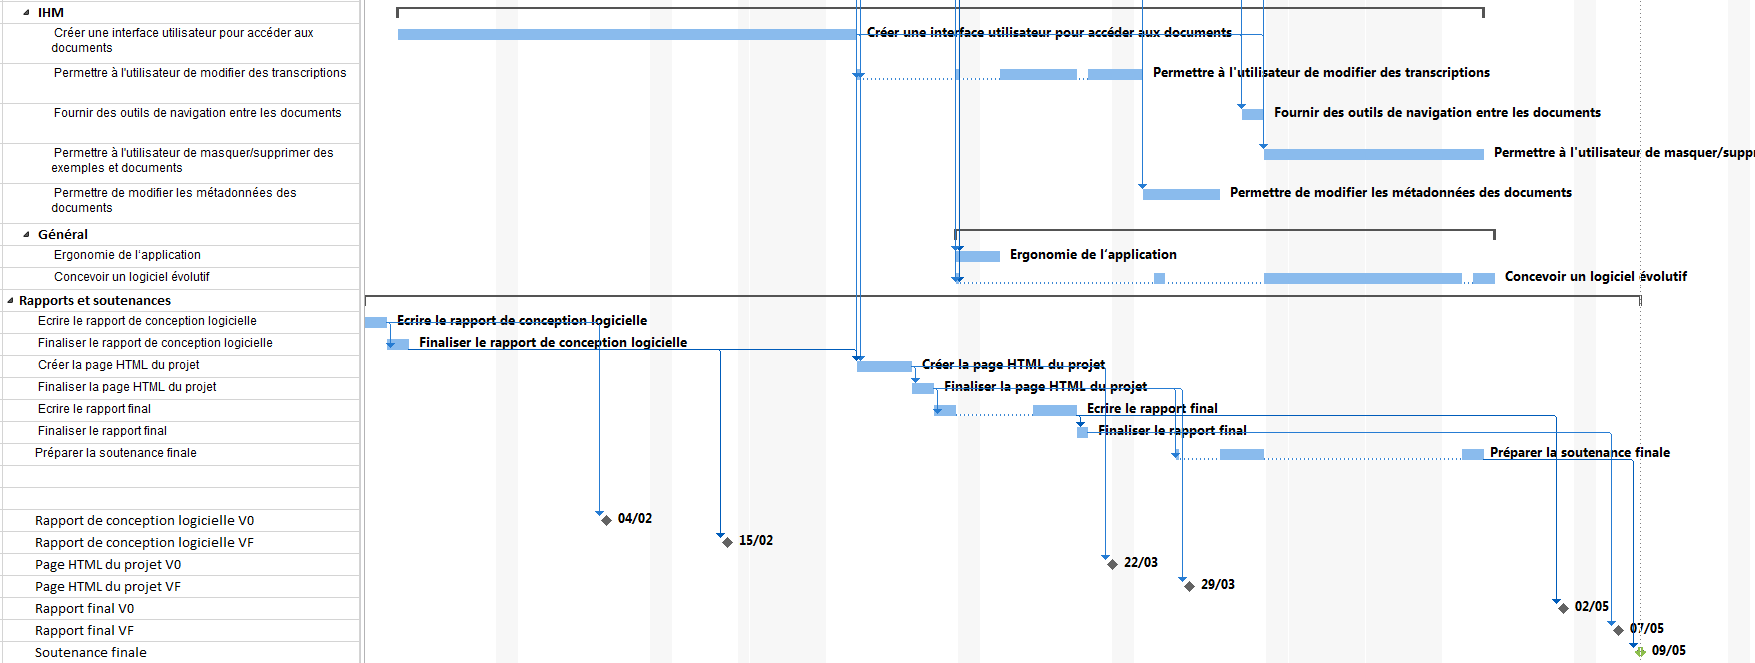
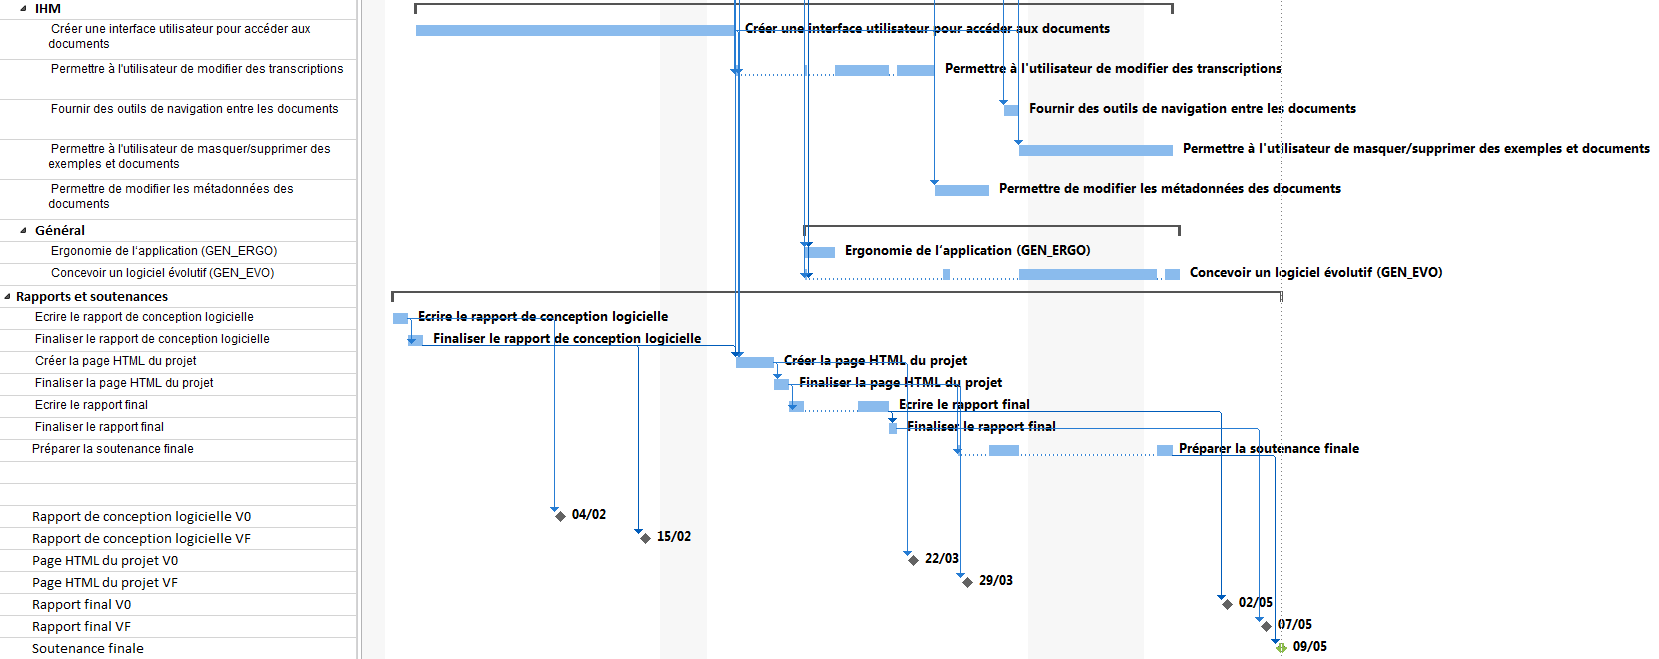
rapport de planification VF

diff --git a/Rapports/Planification/planification.tex b/Rapports/Planification/planification.tex
@@ -17,16 +17,43 @@ Le projet est découpé en 6 tâches principales. Les tâches représentent les 
 
 \paragraph{}
 
-Le projet se déroule de manière parallèle en règle générale, mais chaque bloc a un fonctionnement interne séquentiel, chaque grande tâche est divisée en sous-tâches.
+Le projet se déroule de manière parallèle en règle générale, mais chaque bloc a un fonctionnement interne séquentiel, chaque grande tâche est divisée en sous-tâches. Nous avons estimé la durée des différentes tâches d’après notre expérience sur les différents travaux pratiques et projets effectués au cours de notre formation.
 
 \paragraph{}
 
-Tout d’abord, la partie \textbf{préparation des données} consiste à traiter les documents que l’utilisateur souhaite intégrer au logiciel pour pouvoir les découper et les mettre dans un format compatible avec la base de données.
-Ensuite, la partie \textbf{stockage des données} consiste à créer une base de données (choix de la manière de stocker les données établi dans le rapport de spécifications) pour enregistrer les exemples d’apprentissage donnés par l’utilisateur et fournir une interface pour extraire ces données.
-La partie interface avec le reconnaisseur consiste à fournir une interface entre le stockage et le système de reconnaissance d’écriture manuscrite.
-La partie \textbf{IHM} est la partie fournissant l’interface entre le logiciel et l’utilisateur.
-La partie \textbf{généralités} est une partie regroupant des travaux globaux sur le logiciel (lier les blocs entre eux, concevoir un logiciel évolutif, etc. ).
-Enfin, les \textbf{rapports et soutenances} représentent une partie non négligeable du travail et surtout la partie la plus contrainte aux dates de rendus.
+Tout d’abord, la partie \textbf{préparation des données} consiste à traiter les documents que l’utilisateur souhaite intégrer au logiciel pour pouvoir les découper et les mettre dans un format compatible avec la base de données. Cette partie représente selon notre estimation 77 heures de travail.
+
+\paragraph{}
+
+Ensuite, la partie \textbf{stockage des données} consiste à créer une base de données (choix de la manière de stocker les données établi dans le rapport de spécifications) pour enregistrer les exemples d’apprentissage donnés par l’utilisateur et fournir une interface pour extraire ces données. Cette partie représente environ 10 heures de travail, une grande partie ayant été faite au premier semestre.
+
+\paragraph{}
+
+La partie \textbf{interface avec le reconnaisseur} consiste à fournir une interface entre le stockage et le système de reconnaissance d’écriture manuscrite. Cette partie a été estimée à 40 heures de travail.
+
+\paragraph{}
+
+La partie \textbf{IHM} est la partie fournissant l’interface entre le logiciel et l’utilisateur. C’est dans cette partie que le plus de travail reste à faire, que nous avons estimé à 85 heures.
+
+\paragraph{}
+
+La partie \textbf{généralités} est une partie regroupant des travaux globaux sur le logiciel (lier les blocs entre eux, concevoir un logiciel évolutif, etc. ). Cela représente environ 16 heures de travail.
+
+\paragraph{}
+
+Enfin, les \textbf{rapports et soutenances} représentent une partie non négligeable du travail et surtout la partie la plus contrainte aux dates de rendus. Nous avons estimés cette partie à 63 heures de travail : environ 15 heures par rapport, 10 heures pour la soutenance, et 23 heures pour la page HTML.
+
+\paragraph{}
+
+La durée totale du projet est estimée à 228 heures.
+
+\paragraph{}
+
+\begin{mdframed}[frametitle={Figure 2 : Diagramme de répartition du travail par bloc}, innerbottommargin=10]
+\begin{center}
+\includegraphics[scale=0.44]{repartition_travail_blocs.pdf}
+\end{center}
+\end{mdframed}
 
 \section{Affectation des ressources par tâche}
 
@@ -42,7 +69,11 @@ La partie stockage des données est une partie différente des autres car la bas
 
 \paragraph{}
 
-Cette répartition permet de répartir la charge de travail de manière équilibrée. Selon notre estimation du temps de travail pour chaque tâche, chaque membre du groupe a une charge de travail égale.
+Concernant la répartition du travail sur les rapports, il a été estimé un travail égal pour chaque personne. Etant donné que les membres de l’équipe sont répartis en blocs, au moins un membre de chaque doit écrire une partie du rapport. Nous sommes donc partis du principe que le travail sur le rapport serait équitablement réparti dans chaque bloc, mais la répartition intra-blocs se fera en réalité au moment de l’écriture entre les membres de l’équipe.
+
+\paragraph{}
+
+Cette répartition permet de répartir la charge de travail de manière équilibrée. Selon notre estimation du temps de travail pour chaque tâche, chaque membre du groupe a une charge de travail égale (de 42~43 heures).
 
 \section{Jalons}
 
@@ -50,7 +81,7 @@ En plus de la planification du temps de développement, nous avons intégré à 
 
 \section{Diagramme de Gantt}
 
-\begin{mdframed}[frametitle={Figure 1 : Diagramme de Gantt du projet (1/2)}, innerbottommargin=10]
+\begin{mdframed}[frametitle={Figure 3 : Diagramme de Gantt du projet (1/2)}, innerbottommargin=10]
 \begin{center}
 \includegraphics[scale=0.35]{gantt_V2.1.PNG}
 \end{center}
@@ -58,7 +89,7 @@ En plus de la planification du temps de développement, nous avons intégré à 
 
 \newpage
 
-\begin{mdframed}[frametitle={Figure 2 : Diagramme de Gantt du projet (2/2)}, innerbottommargin=10]
+\begin{mdframed}[frametitle={Figure 4 : Diagramme de Gantt du projet (2/2)}, innerbottommargin=10]
 \begin{center}
 \includegraphics[scale=0.35]{gantt_V2.2.PNG}
 \end{center}
@@ -66,14 +97,28 @@ En plus de la planification du temps de développement, nous avons intégré à 
 
 Le diagramme de Gantt ci-dessus décrit l’ensemble de la planification du projet, de la conception au rendu final en passant par la gestion de projet ou le développement de chaque itération. On y retrouve également les jalons dont nous avons parlé précédemment.
 
-\paragraph{}
-Comme dit précédemment, notre projet est consistué de deux itérations. La première itération est constitué des tâches à effectuer avant la création de la page HTML. La seconde est composée des tâches restantes.
+\section{Analyse de la planification}
+
+\subsection{Analyse globale}
+
+Comme dit précédemment, notre projet est constitué de deux itérations. La première itération est constitué des tâches à effectuer avant la création de la page HTML. La seconde est composée des tâches restantes. Comme on peut le voir sur le diagramme, les quatre blocs sont biens parallèles et découpés en tâches. On peut constater que les tâches sont réparties uniformément entre les différents blocs mais que la partie IHM se termine après les autres. Cette partie étant en effet, plus volumineuse, les membres du groupe qui auront terminé leur partie pourront éventuellement aller aider à développer l’IHM en fin  de projet.
+
+\subsection{Tâches critiques}
+
+A partir du diagramme de Gantt, on peut voir apparaître deux tâches critiques, bloquant l’avancement du projet.
+
+\begin{itemize}
+\item la création d’un convertisseur GEDI vers Piff est une tâche nécessaire pour l’ensemble des tâches de la préparation de données et de l’interface avec le reconnaisseur ;
+\item la création de la base de données est une étape nécessaire pour intégrer la majorité des fonctionnalités de l’IHM .
+\end{itemize}
 
 \paragraph{}
-Comme on peut le voir sur le diagramme, les quatre blocs sont biens parallèles et découpés en tâches.
 
+Ces tâches doivent être effectuées en priorité pour que le projet puisse avancer. Elles influent en effet sur plusieurs parties du projet. Une fois ces tâches effectuées, la majorité du projet peut se paralléliser. Cet aspect critique a été déduit intuitivement lors de la phase de spécifications du projet, c‘est pourquoi leur développement a été entamé au premier semestre. L’étude avec Microsoft Project a permis de confirmer l’aspect impératif de ces tâches.
 
+\subsection{Ce que l'on peut retenir}
 
+Grâce au diagramme de Gantt, nous avons pu estimer l’organisation de notre travail au second semestre. Selon cette estimation, la date de fin de projet est fixée au vendredi 26 avril. Ce qui nous laisse deux semaines d’avance, avant le dernier rendu. Nous avons également pu confirmer que l’ensemble de notre projet est faisable dans le temps qui nous est imparti. De même, selon Microsoft Project, la réalisation de la première itération pourra être réalisée pour le 27 février. Nous disposerons alors d’une première réalisation fonctionnelle de notre projet, nous aurons du temps pour améliorer cette première version, en collaboration avec le client.
 
 
 

diff --git a/Rapports/Planification/estimation.tex b/Rapports/Planification/estimation.tex
@@ -7,7 +7,17 @@ L’estimation des charges de la partie hors développement se résume en deux g
 
 \paragraph{}
 
-Pour les deux grands points, le calcul a été sensiblement le même. Dans un premier temps, pour les réunions, nous nous sommes basés sur le temps hebdomadaire passé en réunion depuis le début du projet, au mois de septembre, que nous avons multiplié à la fois par le nombre de semaines restantes et par le nombre de personnes dans le groupe. Dans un  second temps, nous avons calculé le temps nécessaire à la réalisation des prochains rapports. Dans ce cas, nous avons multiplié le temps passé en moyenne par chaque personne pour l’écriture d’un rapport par le nombre de personnes dans le groupe et par le nombre de rapports qu’il nous reste à rendre. Nous avons pu calculer la charge des rapports de cette façon, car nous avons réparti leurs réalisations de façon homogène entre les différents membres du groupe.
+Pour les deux grands points, le calcul a été sensiblement le même. Dans un premier temps, pour les réunions, nous nous sommes basés sur le temps hebdomadaire passé en réunion depuis le début du projet, au mois de septembre, que nous avons multiplié à la fois par le nombre de semaines restantes et par le nombre de personnes dans le groupe. Dans un  second temps, nous avons calculé le temps nécessaire à la réalisation des prochains rapports. Pour ce faire nous avions besoin de plusieurs chiffres :
+
+\begin{itemize}
+\item le nombre moyen d’heures passées par personnes pour la réalisation d’un rapport. Ce chiffre est basé sur le temps que nous avons passé pour l’écriture des premiers rapports ;
+\item le nombre de personnes affectées à la rédaction d’un rapport. Nous avons choisi de mobiliser la moitié du groupe pour l’écriture de chaque rapport. Ainsi, le groupe étant réduit à 5 personnes au second semestre, 2 personnes s’occuperont d’un rapport pendant les périodes de rendu ;
+\item le nombre de rapports restants.
+\end{itemize}
+
+\paragraph{}
+
+En multipliant ces chiffres, nous avons obtenu la charge des rapports. Ce calcul a été possible car nous avons réparti de façon homogène entre les membres du groupe la charge de travail pour la réalisation des rapports.
 
 \section{Estimation de la partie développement}
 
@@ -16,7 +26,7 @@ Cette partie a été plus compliquée à estimer car nous avions peu de repères
 \begin{itemize}
 \item connaissance des technologies utilisées (donc temps d’apprentissage nécessaire estimé) ;
 \item temps estimé de conception ;
-\item temps estimé de développement .
+\item temps estimé de développement (en incluant les tests) .
 \end{itemize}
 
 \subsection{Estimation du temps d'apprentissage}
@@ -31,4 +41,19 @@ La conception ayant majoritairement été réalisée précédemment, cette parti
 
 \subsection{Estimation du temps de développement}
 
-Cette partie de l’estimation est la plus compliquée à estimer. En effet, il n’est pas possible de prévoir les problèmes que nous allons rencontrer. C’est pourquoi, nous nous sommes basés sur le temps de développement d’autres projets que nous avons réalisés en y ajoutant une marge au cas où nous serions confrontés à un problème. Afin d’essayer d’obtenir une approximation plus proche de la réalité, nous avons divisé en plus petites parties les objectifs de chacun. Ainsi, alors qu’un grand projet peut paraître vague à estimer, raisonner sur des petites parties concrètes nous permet cette granularité.
+Cette partie de l’estimation est la plus compliquée à estimer. En effet, il n’est pas possible de prévoir les problèmes que nous allons rencontrer. C’est pourquoi, nous nous sommes basés sur le temps de développement d’autres projets que nous avons réalisés comptant l’écriture du code, la documentation ainsi que les tests, et en y ajoutant une marge au cas où nous serions confrontés à un problème. Afin d’essayer d’obtenir une approximation plus proche de la réalité, nous avons divisé en plus petites parties les objectifs de chacun. Ainsi, alors qu’un grand projet peut paraître vague à estimer, raisonner sur des petites parties concrètes nous permet cette granularité.
+
+\paragraph{}
+
+Nous avons décomposé chaque tâche de développement en sous-parties. Tout d’abord une marge de 25\% est définie en cas de sous-estimation du temps de travail. Ensuite, le travail à faire est décomposé en deux grande parties auxquelles un temps égal est accordé : la conception de la solution en elle-même et la correction de la solution. Concernant la première partie, 12.5\% du temps correspond à l’analyse du travail à faire, à la recherche d’une solution efficace pour répondre au problème posé. Le développement en temps que tel, l’implémentation de la réponse, représente 25\% du temps. Concernant la seconde partie, 20\% du temps est accordé à la création et à l’exécution de tests afin de vérifier le bon fonctionnement de la solution. Enfin, respectivement 12.5\% et 5\% sont dédiés à l’intégration au sein du projet et à la documentation.
+
+\paragraph{}
+
+\begin{mdframed}[frametitle={Figure 1 : Diagramme de répartition du travail par tâche}, innerbottommargin=10]
+\begin{center}
+\includegraphics[scale=0.44]{repartition_travail_taches.pdf}
+\end{center}
+\end{mdframed}
+
+
+

diff --git a/Rapports/Planification/rappel-contexte.tex b/Rapports/Planification/rappel-contexte.tex
@@ -3,7 +3,7 @@
 
 \section{Les acteurs du projet}
 
-Notre projet est encadré par Bertrand COÜASNON, enseignant à l’INSA de Rennes et membre de l’équipe de recherche IntuiDoc à l’IRISA, ainsi que Erwan Fouché et Julien Bouvet, ingénieurs au sein de l’entreprise Sopra Steria. Nous réalisons ce projet en relation Jean-Yves LE CLERC, conservateur et responsable de la numérisation  aux archives départementales d’Ille-et-Vilaine, et Sophie Tardivel, responsable et data scientist chez Doptim.
+Notre projet est encadré par Bertrand COÜASNON, enseignant à l’INSA de Rennes et membre de l’équipe de recherche IntuiDoc à l’IRISA, ainsi que Erwan Fouché et Julien Bouvet, ingénieurs au sein de l’entreprise Sopra Steria. Nous réalisons ce projet en relation avec Jean-Yves LE CLERC, conservateur et responsable de la numérisation  aux archives départementales d’Ille-et-Vilaine, et Sophie Tardivel, responsable et data scientist chez Doptim.
 
 \paragraph{}
 
@@ -35,7 +35,7 @@ Le résultat attendu par le client est une application pouvant être utilisable 
 
 \paragraph{}
 
-Afin d’arriver à ce niveau de qualification, nous allons devoir mettre en place plusieurs  stratégies. Tout d’abord nous ferons des tests unitaires sur l’application afin de nous assurer de la robustesse du système de gestion des données. Ensuite, du côté client, les tests seront surtout faits directement sur l’interface utilisateur pour détecter des problèmes fonctionnels d’une part et problèmes d’affichage d’autre part.
+Afin d’arriver à ce niveau de qualification, nous allons devoir mettre en place plusieurs  stratégies. Tout d’abord nous ferons des tests unitaires sur l’application afin de nous assurer de la robustesse du système de gestion des données. Ensuite, du côté client, les tests seront surtout faits directement sur l’interface utilisateur pour détecter des problèmes fonctionnels d’une part et des problèmes d’affichage d’autre part.
 
 \section{Le calendrier}
 
@@ -87,7 +87,7 @@ Lors de la phase de développement de l’application, nous avons envisagé plus
 
 \paragraph{}
 
-\textbf{Risque : } Absence non prévue (maladie, etc.)
+\noindent \textbf{Risque : } Absence non prévue (maladie, etc.)
 \newline
 \textbf{Impact : } Plus de travail pour les autres, nécessité de rattraper le retard pour l'absent
 \newline
@@ -97,7 +97,7 @@ Lors de la phase de développement de l’application, nous avons envisagé plus
 
 \paragraph{}
 
-\textbf{Risque : } Surcharge de travail avec les cours
+\noindent \textbf{Risque : } Surcharge de travail avec les cours
 \newline
 \textbf{Impact : } Moins de temps pour travailler sur le projet
 \newline
@@ -105,15 +105,15 @@ Lors de la phase de développement de l’application, nous avons envisagé plus
 
 \paragraph{}
 
-\textbf{Risque : } Bug incompréhensible, zone de blocage
+\noindent \textbf{Risque : } Bug incompréhensible, zone de blocage
 \newline
 \textbf{Impact : } Perte de temps et risque de retarder les autres membres de l’équipe
 \newline
 \textbf{Action : } En parler avec les autres pour ne pas rester coincé seul
 
 \paragraph{}
-
-\textbf{Risque : } Blocage dû à la parallélisation des tâches (exemple : le développeur de la partie
+ 
+\noindent \textbf{Risque : } Blocage dû à la parallélisation des tâches (exemple : le développeur de la partie
 front-end en attente de la mise en place de la partie base de données)
 \newline
 \textbf{Impact : } Perte de temps et membres du groupe non utilisés
@@ -123,7 +123,7 @@ en attendant
 
 \paragraph{}
 
-\textbf{Risque : } Problème relationnel entre des personnes du groupe
+\noindent \textbf{Risque : } Problème relationnel entre des personnes du groupe
 \newline
 \textbf{Impact : } Création de conflits, perte de communication et donc d’informations
 \newline
@@ -133,7 +133,7 @@ en attendant
 
 \paragraph{}
 
-\textbf{Risque : } Mauvaise interprétation de ce qui est demandé par le client
+\noindent \textbf{Risque : } Mauvaise interprétation de ce qui est demandé par le client
 \newline
 \textbf{Impact : } Perte de temps à développer inutilement
 \newline

diff --git a/Rapports/Planification/organisation.tex b/Rapports/Planification/organisation.tex
@@ -2,7 +2,7 @@
 
 \section{Découpage du projet}
 
-Le projet peut être découpé en quatre blocs distincts. Nous avons donc réparti chacun des membres de l’équipe sur ces blocs. Cette façon de découper le projet possède des avantages comme des inconvénients.
+Le projet peut être découpé en quatre blocs distincts. Nous avons donc réparti chacun des membres de l’équipe sur ces blocs. Chaque bloc comprendra une partie de développement, l’écriture de la documentation ainsi que les tests logiciels. Cette façon de découper le projet possède des avantages comme des inconvénients.
 
 \paragraph{}
 
@@ -14,21 +14,25 @@ Voici les blocs que nous avons défini :
 
 \begin{itemize}
 \item traitement des données en entrées ;
-\item création et communication avec la base de donnée ;
+\item création et communication avec la base de données  ;
 \item IHM ;
-\item interface avec les reconnaisseurs.
+\item interface avec les reconnaisseurs .
 \end{itemize}
 
 \section{Cycle de production}
 
-Étant donné le contexte scolaire dans lequel est réalisé ce projet, baser notre gestion de projet sur un cycle en V itératif nous a semblé particulièrement adapté. Par ailleurs, notre
+Étant donné le contexte scolaire dans lequel est réalisé ce projet, baser notre gestion de projet sur un cycle en V itératif nous a semblé particulièrement adapté. Ayant des cours à travailler à côté, nous ne pouvons donc pas consacrer l’intégralité de notre temps au projet. Effectuer des méthodes agiles (avec des sprints par exemple) ne semble donc pas adapté, de part les contraintes causées par les autres matières (examens, rendus de rapports et de projets, ...). Par ailleurs, notre
 façon de travailler lors de la phase d’analyse nous a conforté dans cette idée. Nous proposons donc de fonctionner en suivant cette méthode pour les livrables jusqu’à la phase de conception, puis en suivant un cycle en V itératif pour la réalisation logicielle. 
 
 \paragraph{}
 
-Nous avons ainsi défini deux cycles ou itérations. Le premier ayant déjà débuté et se terminant début février, le second débutant à la suite du premier et allant jusqu’à la fin du projet. L’objectif du premier cycle est d’anticiper l’inconvénient d’incompatibilité entre les blocs. Nous allons donc, avant la fin de ce cycle, développer une base de chaque bloc qui devra être capable de communiquer avec les autres blocs. Si la communication peut se faire sans problème, nous pourrons nous lancer dans le développement approfondi de nos parties. Dans le cas contraire, il faudra d’abord résoudre les problèmes de compatibilité.
+Nous avons ainsi défini deux cycles ou itérations. Le premier ayant déjà débuté et se terminant début février, le second débutant à la suite du premier et allant jusqu’à la fin du projet. L’objectif du premier cycle est d’anticiper l’inconvénient d’incompatibilité entre les blocs. Nous allons donc, avant la fin de ce cycle, développer une base de chaque bloc qui devra être capable de communiquer avec les autres blocs. Cette première partie sera conçue d’une traite et sera fonctionnelle et testable par le client.
 
 \newpage
+
+\paragraph{}
+
+Si le logiciel ne comporte pas d’erreurs et qu’il fonctionne correctement (la communication entre les blocs se fait sans problèmes), nous pourrons nous lancer dans le développement approfondi de nos parties, de manière plus itérative, c’est-à-dire ajouter progressivement des fonctionnalités en s’assurant que le logiciel fonctionne toujours normalement. Dans le cas contraire, il faudra d’abord résoudre les problèmes de compatibilité.
 
 \section{Mode de pilotage}
 

diff --git a/Rapports/Planification/introduction.tex b/Rapports/Planification/introduction.tex
@@ -8,4 +8,4 @@
 Dans le cadre de notre projet de 4ème année sur le développement d’un générateur de bases d’apprentissage pour des reconnaisseurs d’écriture manuscrite, nous avons effectué une planification initiale des tâches à réaliser. Ce document est le troisième et dernier rapport de la phase d’analyse du projet, il présente et explique nos choix vis-à-vis de la gestion de projet, de la planification et présente les estimations que nous avons pu faire.
 
 \paragraph{}
-Dans l’objectif de vous présenter nos choix, nous rappellerons dans un premier temps le contexte, en expliquant quels sont les acteurs, pourquoi ils ont fait appel à nous et comment nous comptons répondre leur besoin. Dans un second temps, nous décrirons la gestion que nous comptons employer afin de mener ce projet à bout, au travers des méthodes, de l’organisation ainsi que du mode de pilotage. Dans une troisième partie dédiée à l’estimation, nous expliquerons comment nous avons découpé le projet en tâches afin d’obtenir une estimation précise, que ce soit pour le développement ou pour la partie gestion. Enfin, la dernière partie permettra de mettre en valeur le travail de planification et d’estimation réalisé, en présentant l’analyse effectuée grâce à Microsoft Project.
+Dans l’objectif de vous présenter nos choix, nous rappellerons dans un premier temps le contexte, en expliquant quels sont les acteurs, pourquoi ils ont fait appel à nous et comment nous comptons répondre à leurs besoins. Dans un second temps, nous décrirons la gestion que nous comptons employer afin de mener ce projet à terme, au travers des méthodes, de l’organisation ainsi que du mode de pilotage. Dans une troisième partie dédiée à l’estimation, nous expliquerons comment nous avons découpé le projet en tâches afin d’obtenir une estimation précise, que ce soit pour le développement ou pour la partie gestion. Enfin, la dernière partie permettra de mettre en valeur le travail de planification et d’estimation réalisé, en présentant l’analyse effectuée grâce à Microsoft Project.
